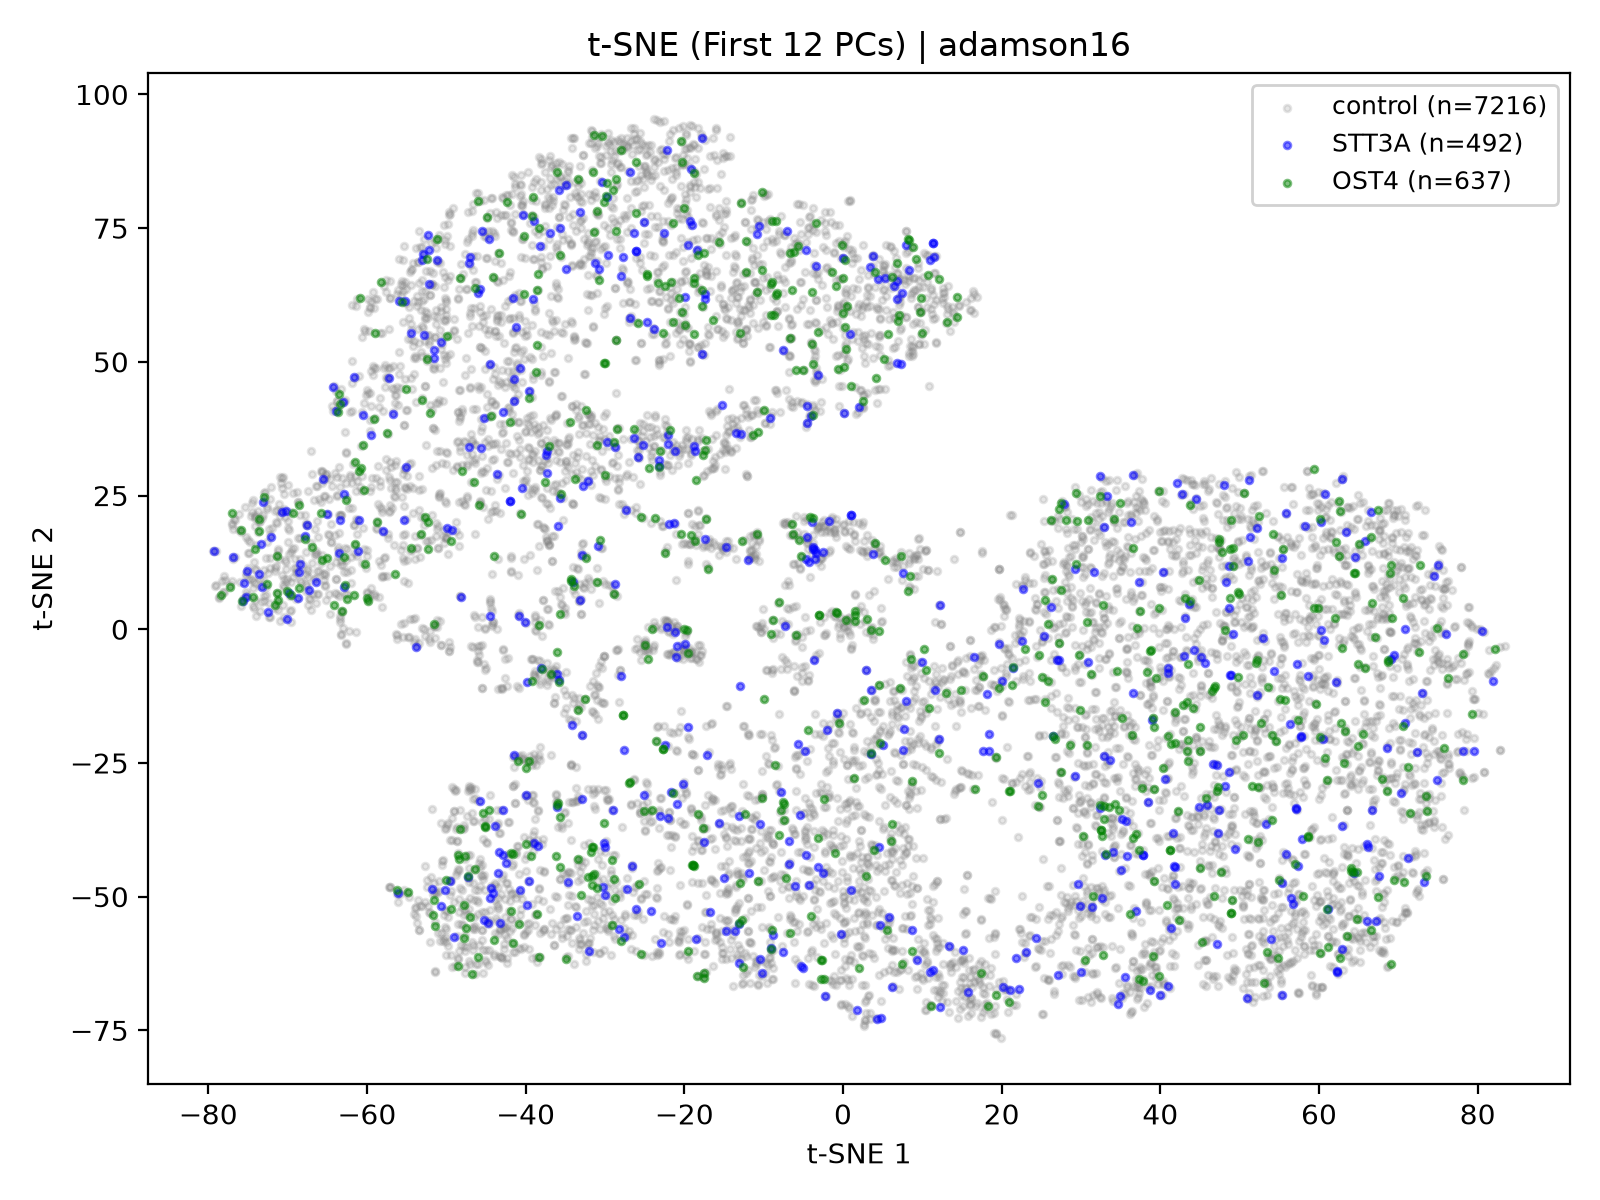
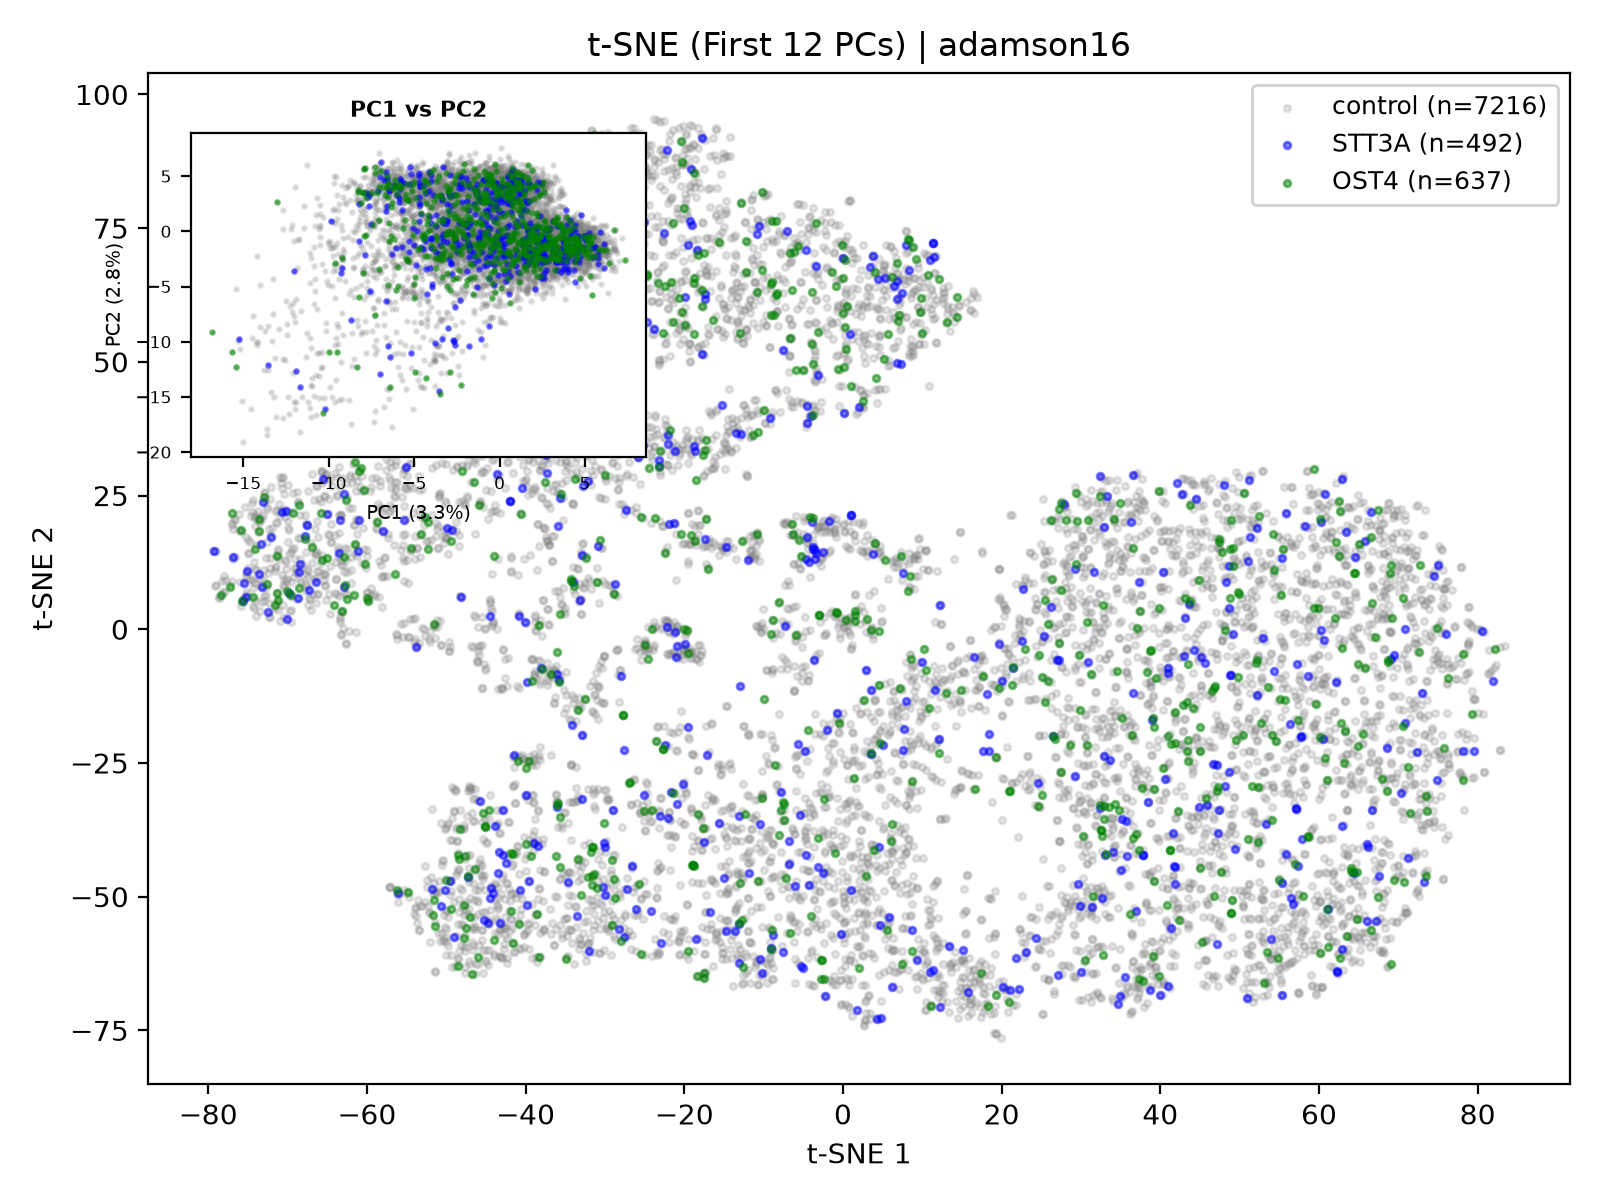
PCA on HVG, all genes

diff --git a/visualisations/adamson/tsne/pca/two_perts/hvg_all/tsne-pca-2pert-hvg-all.py b/visualisations/adamson/tsne/pca/two_perts/hvg_all/tsne-pca-2pert-hvg-all.py
@@ -1,0 +1,105 @@
+import os
+from pathlib import Path
+
+import anndata as ad
+import matplotlib
+matplotlib.use("Agg")  # no display on the cluster; render straight to file
+import matplotlib.pyplot as plt
+import numpy as np
+import scanpy as sc
+
+print("Start")
+
+DATASET = "adamson16"
+PERTURBATIONS = ["STT3A", "OST4"]
+CONTROL_LABEL = "control"
+
+DATA_PATH = Path(os.environ.get(
+    "ADAMSON_PATH",
+    f"/cluster/work/boeva/virtual_cell_reasoning/data/{DATASET}/{DATASET}_processed.h5ad",
+))
+OUT_DIR = Path(os.environ.get("OUT_DIR", "."))
+OUT_DIR.mkdir(parents=True, exist_ok=True)
+
+print(f"Loading dataset from: {DATA_PATH}")
+adata_full = ad.read_h5ad(DATA_PATH)
+print(f"Full dataset shape: {adata_full.shape}")
+
+# 1. Compute Highly Variable Genes globally on ALL cells in the dataset
+print("Computing Global Highly Variable Genes (HVGs) on all cells...")
+sc.pp.highly_variable_genes(adata_full, n_top_genes=2000, flavor="seurat")
+hvg_mask = adata_full.var["highly_variable"].values
+print(f"Number of global HVGs selected: {hvg_mask.sum()}")
+
+# 2. Subset dataset to control + the 2 chosen perturbations only, keeping only global HVGs
+target_groups = PERTURBATIONS + [CONTROL_LABEL]
+subset_mask = adata_full.obs["perturbation"].isin(target_groups).values
+
+adata_sub = adata_full[subset_mask, hvg_mask].copy()
+print(f"Subset shape (Control + {PERTURBATIONS} on Global HVGs): {adata_sub.shape}")
+
+# 3. Run PCA (12 components) and t-SNE on this subset
+print("Running PCA (12 components) on subset...")
+sc.pp.pca(adata_sub, n_comps=12, random_state=42)
+pcs_sub = adata_sub.obsm["X_pca"]
+var_ratio_sub = adata_sub.uns["pca"]["variance_ratio"]
+
+print("Running t-SNE on the first 12 PCs...")
+sc.tl.tsne(adata_sub, n_pcs=12, random_state=42)
+tsne_coords = adata_sub.obsm["X_tsne"]
+
+# 4. Plotting: t-SNE with PCA inset (Small points for large cell counts)
+fig, ax = plt.subplots(figsize=(8, 6))
+
+is_ctrl = (adata_sub.obs["perturbation"] == CONTROL_LABEL).values
+colors = ["#0072B2", "#D55E00"]  # Distinct colors for the 2 perturbations
+
+# Plot control cells (gray)
+ax.scatter(
+    tsne_coords[is_ctrl, 0], tsne_coords[is_ctrl, 1], 
+    c="gray", s=5.0, alpha=0.3, 
+    label=f"Control (n={is_ctrl.sum()})", rasterized=True
+)
+
+# Plot each of the 2 perturbations
+for i, pert in enumerate(PERTURBATIONS):
+    is_pert = (adata_sub.obs["perturbation"] == pert).values
+    ax.scatter(
+        tsne_coords[is_pert, 0], tsne_coords[is_pert, 1], 
+        c=colors[i], s=5.0, alpha=0.4, 
+        label=f"{pert} (n={is_pert.sum()})", rasterized=True
+    )
+
+ax.set_title(f"t-SNE (on 12 PCs, Global HVGs: {PERTURBATIONS[0]} & {PERTURBATIONS[1]})", fontsize=10, fontweight='bold')
+ax.set_xlabel("t-SNE 1", fontsize=10)
+ax.set_ylabel("t-SNE 2", fontsize=10)
+ax.legend(loc="upper right", framealpha=0.9, fontsize=9, markerscale=3.0)
+
+# Subplot inset in the top left corner (PC1 vs PC2)
+ax_inset = ax.inset_axes([0.03, 0.62, 0.32, 0.32])
+
+ax_inset.scatter(
+    pcs_sub[is_ctrl, 0], pcs_sub[is_ctrl, 1], 
+    c="gray", s=0.3, alpha=0.3, rasterized=True
+)
+for i, pert in enumerate(PERTURBATIONS):
+    is_pert = (adata_sub.obs["perturbation"] == pert).values
+    ax_inset.scatter(
+        pcs_sub[is_pert, 0], pcs_sub[is_pert, 1], 
+        c=colors[i], s=0.3, alpha=0.4, rasterized=True
+    )
+
+ax_inset.set_title("PC1 vs PC2", fontsize=8, fontweight='bold')
+ax_inset.set_xlabel(f"PC1 ({var_ratio_sub[0]*100:.1f}%)", fontsize=7)
+ax_inset.set_ylabel(f"PC2 ({var_ratio_sub[1]*100:.1f}%)", fontsize=7)
+ax_inset.tick_params(labelsize=6)
+
+fig.suptitle(f"Dataset: {DATASET} | Global HVGs + Subset PCA/t-SNE", fontsize=10)
+fig.tight_layout()
+
+out_path = OUT_DIR / f"tsne12_pca_{DATASET}_global_hvgs_subset_{PERTURBATIONS[0]}_{PERTURBATIONS[1]}.png"
+fig.savefig(out_path, dpi=300)
+plt.close(fig)
+print("Saved:", out_path)
+
+print("Done!")

diff --git a/visualisations/adamson/tsne/pca/two_perts/hvg_target/tsne-pca-2pert-hvg-target.py b/visualisations/adamson/tsne/pca/two_perts/hvg_target/tsne-pca-2pert-hvg-target.py
@@ -1,0 +1,107 @@
+import os
+from pathlib import Path
+
+import anndata as ad
+import matplotlib
+matplotlib.use("Agg")  # no display on the cluster; render straight to file
+import matplotlib.pyplot as plt
+import numpy as np
+import scanpy as sc
+
+print("Start")
+
+DATASET = "adamson16"
+PERTURBATIONS = ["STT3A", "OST4"]
+CONTROL_LABEL = "control"
+
+DATA_PATH = Path(os.environ.get(
+    "ADAMSON_PATH",
+    f"/cluster/work/boeva/virtual_cell_reasoning/data/{DATASET}/{DATASET}_processed.h5ad",
+))
+OUT_DIR = Path(os.environ.get("OUT_DIR", "."))
+OUT_DIR.mkdir(parents=True, exist_ok=True)
+
+print(f"Loading dataset from: {DATA_PATH}")
+adata_full = ad.read_h5ad(DATA_PATH)
+print(f"Full dataset shape: {adata_full.shape}")
+
+# 1. Subset dataset to control + the 2 chosen perturbations only
+target_groups = PERTURBATIONS + [CONTROL_LABEL]
+subset_mask = adata_full.obs["perturbation"].isin(target_groups).values
+adata_sub = adata_full[subset_mask, :].copy()
+print(f"Subset shape (Control + {PERTURBATIONS}): {adata_sub.shape}")
+
+# 2. Compute HVGs exclusively on this subset
+print("Computing Highly Variable Genes (HVGs) on the subset...")
+sc.pp.highly_variable_genes(adata_sub, n_top_genes=2000, flavor="seurat")
+hvg_mask = adata_sub.var["highly_variable"].values
+print(f"Number of subset-specific HVGs selected: {hvg_mask.sum()}")
+
+# Keep only the HVGs
+adata_sub = adata_sub[:, hvg_mask].copy()
+
+# 3. Run PCA (12 components) and t-SNE on the subset HVGs
+print("Running PCA (12 components) on subset HVGs...")
+sc.pp.pca(adata_sub, n_comps=12, random_state=42)
+pcs_sub = adata_sub.obsm["X_pca"]
+var_ratio_sub = adata_sub.uns["pca"]["variance_ratio"]
+
+print("Running t-SNE on the first 12 PCs...")
+sc.tl.tsne(adata_sub, n_pcs=12, random_state=42)
+tsne_coords = adata_sub.obsm["X_tsne"]
+
+# 4. Plotting: t-SNE with PCA inset (Small points for large cell counts)
+fig, ax = plt.subplots(figsize=(8, 6))
+
+is_ctrl = (adata_sub.obs["perturbation"] == CONTROL_LABEL).values
+colors = ["#0072B2", "#D55E00"]  # Distinct colors for the 2 perturbations
+
+# Plot control cells (gray)
+ax.scatter(
+    tsne_coords[is_ctrl, 0], tsne_coords[is_ctrl, 1], 
+    c="gray", s=5.0, alpha=0.3, 
+    label=f"Control (n={is_ctrl.sum()})", rasterized=True
+)
+
+# Plot each of the 2 perturbations
+for i, pert in enumerate(PERTURBATIONS):
+    is_pert = (adata_sub.obs["perturbation"] == pert).values
+    ax.scatter(
+        tsne_coords[is_pert, 0], tsne_coords[is_pert, 1], 
+        c=colors[i], s=5.0, alpha=0.4, 
+        label=f"{pert} (n={is_pert.sum()})", rasterized=True
+    )
+
+ax.set_title(f"t-SNE (on 12 PCs, Subset HVGs: {PERTURBATIONS[0]} & {PERTURBATIONS[1]})", fontsize=10, fontweight='bold')
+ax.set_xlabel("t-SNE 1", fontsize=10)
+ax.set_ylabel("t-SNE 2", fontsize=10)
+ax.legend(loc="upper right", framealpha=0.9, fontsize=9, markerscale=3.0)
+
+# Subplot inset in the top left corner (PC1 vs PC2)
+ax_inset = ax.inset_axes([0.03, 0.62, 0.32, 0.32])
+
+ax_inset.scatter(
+    pcs_sub[is_ctrl, 0], pcs_sub[is_ctrl, 1], 
+    c="gray", s=0.3, alpha=0.3, rasterized=True
+)
+for i, pert in enumerate(PERTURBATIONS):
+    is_pert = (adata_sub.obs["perturbation"] == pert).values
+    ax_inset.scatter(
+        pcs_sub[is_pert, 0], pcs_sub[is_pert, 1], 
+        c=colors[i], s=0.3, alpha=0.4, rasterized=True
+    )
+
+ax_inset.set_title("PC1 vs PC2", fontsize=8, fontweight='bold')
+ax_inset.set_xlabel(f"PC1 ({var_ratio_sub[0]*100:.1f}%)", fontsize=7)
+ax_inset.set_ylabel(f"PC2 ({var_ratio_sub[1]*100:.1f}%)", fontsize=7)
+ax_inset.tick_params(labelsize=6)
+
+fig.suptitle(f"Dataset: {DATASET} | Focused Subset Analysis", fontsize=10)
+fig.tight_layout()
+
+out_path = OUT_DIR / f"tsne12_pca_{DATASET}_subset_hvgs_{PERTURBATIONS[0]}_{PERTURBATIONS[1]}.png"
+fig.savefig(out_path, dpi=300)
+plt.close(fig)
+print("Saved:", out_path)
+
+print("Done!")

diff --git a/visualisations/adamson/tsne/pca/two_perts/all_genes/two_perts.py b/visualisations/adamson/tsne/pca/two_perts/all_genes/two_perts.py
@@ -45,6 +45,7 @@ adata_combined = adata_full[combined_indices].copy()
 print("Running PCA on combined controls + all perturbations (n_comps=50)...")
 sc.pp.pca(adata_combined, n_comps=50)
 var_ratio_combined = adata_combined.uns["pca"]["variance_ratio"]
+pcs_combined = adata_combined.obsm["X_pca"]
 
 # --- 1. Plot Variance Explained for the first 50 PCs ---
 fig, ax = plt.subplots(figsize=(8, 5))
@@ -63,7 +64,7 @@ fig.savefig(var_out_path, dpi=200)
 plt.close(fig)
 print("Saved variance plot:", var_out_path)
 
-# --- 2. Run and Plot t-SNE computed on the first 12 PCs ---
+# --- 2. Run and Plot t-SNE computed on the first 12 PCs with Top-Left PCA Inset ---
 print("Running t-SNE on the first 12 PCs...")
 sc.tl.tsne(adata_combined, n_pcs=12)
 tsne_coords = adata_combined.obsm["X_tsne"]
@@ -95,6 +96,27 @@ ax.set_title(f"t-SNE (First 12 PCs) | {DATASET}")
 ax.set_xlabel("t-SNE 1")
 ax.set_ylabel("t-SNE 2")
 ax.legend(loc="upper right", framealpha=0.9, fontsize=9)
+
+# --- Add PCA (PC1 vs PC2) Subplot Inset in the Top Left Corner ---
+ax_inset = ax.inset_axes([0.03, 0.62, 0.32, 0.32])
+
+ax_inset.scatter(
+    pcs_combined[is_ctrl_comb, 0], pcs_combined[is_ctrl_comb, 1], 
+    c="gray", s=2, alpha=0.2, rasterized=True
+)
+for i, pert in enumerate(PERTURBATIONS):
+    is_pert = (adata_combined.obs["perturbation"] == pert).values
+    color = colors[i % len(colors)]
+    ax_inset.scatter(
+        pcs_combined[is_pert, 0], pcs_combined[is_pert, 1], 
+        c=color, s=2, alpha=0.5, rasterized=True
+    )
+
+ax_inset.set_title("PC1 vs PC2", fontsize=8, fontweight='bold')
+ax_inset.set_xlabel(f"PC1 ({var_ratio_combined[0]*100:.1f}%)", fontsize=7)
+ax_inset.set_ylabel(f"PC2 ({var_ratio_combined[1]*100:.1f}%)", fontsize=7)
+ax_inset.tick_params(labelsize=6)
+
 fig.tight_layout()
 
 tsne_out_path = OUT_DIR / f"tsne_12pcs_two_perts.png"
